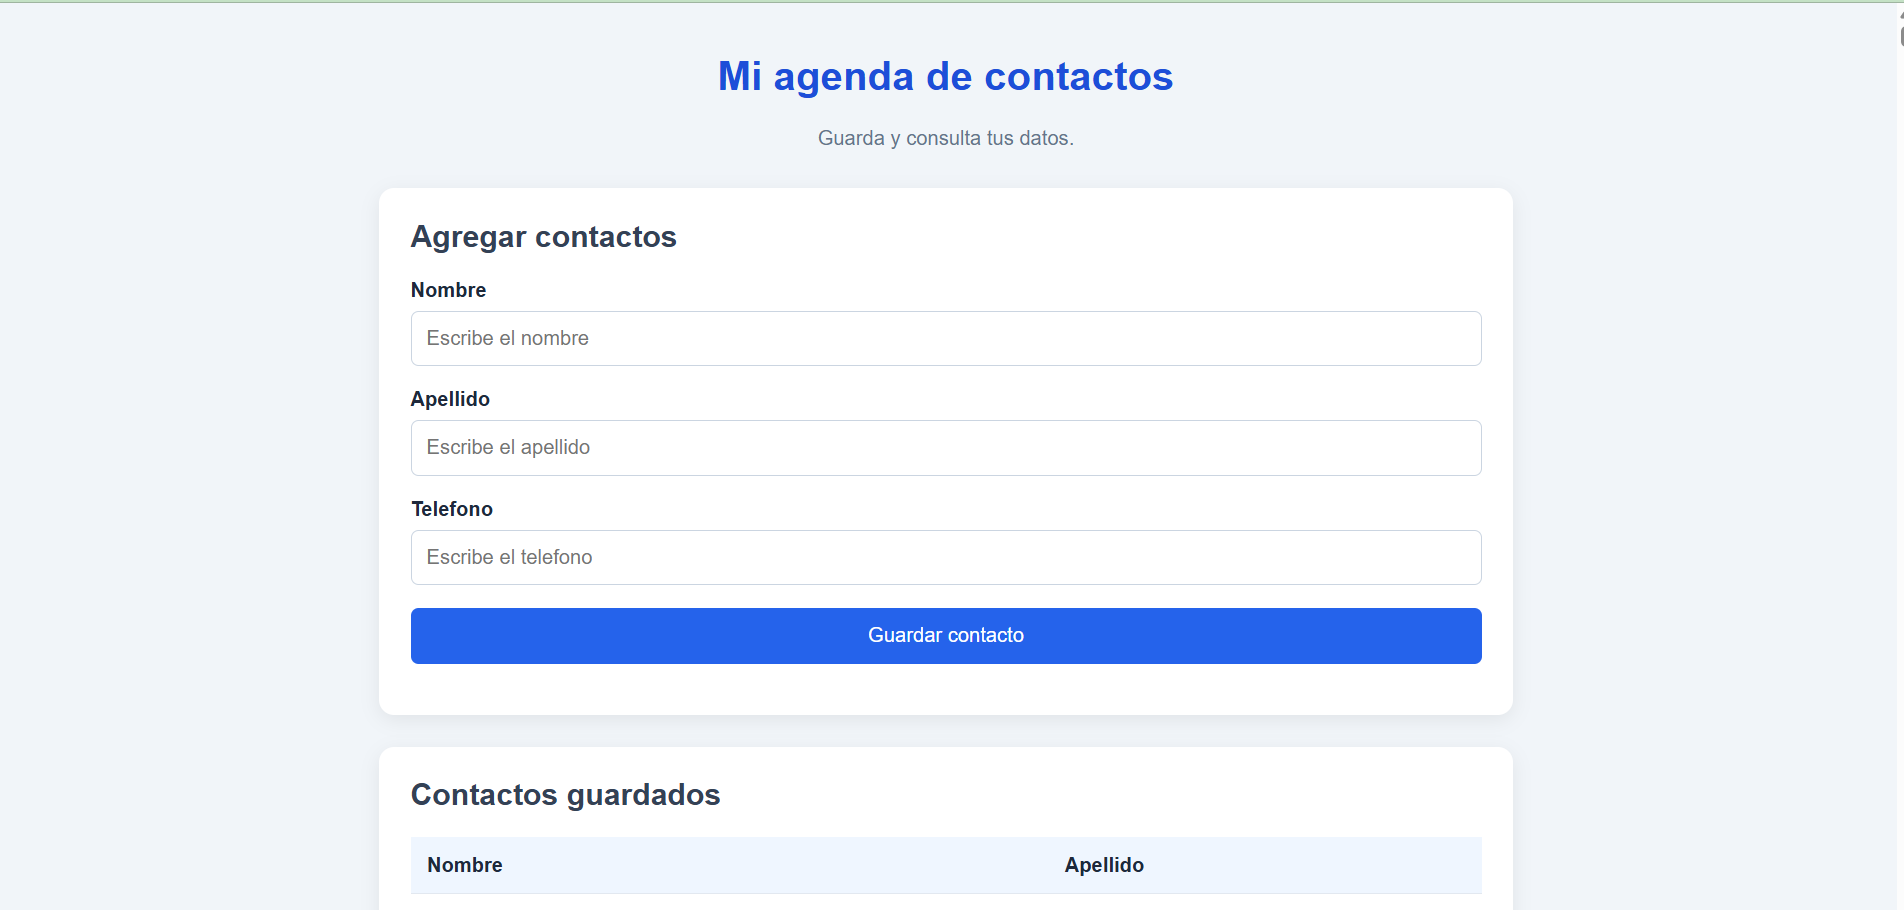
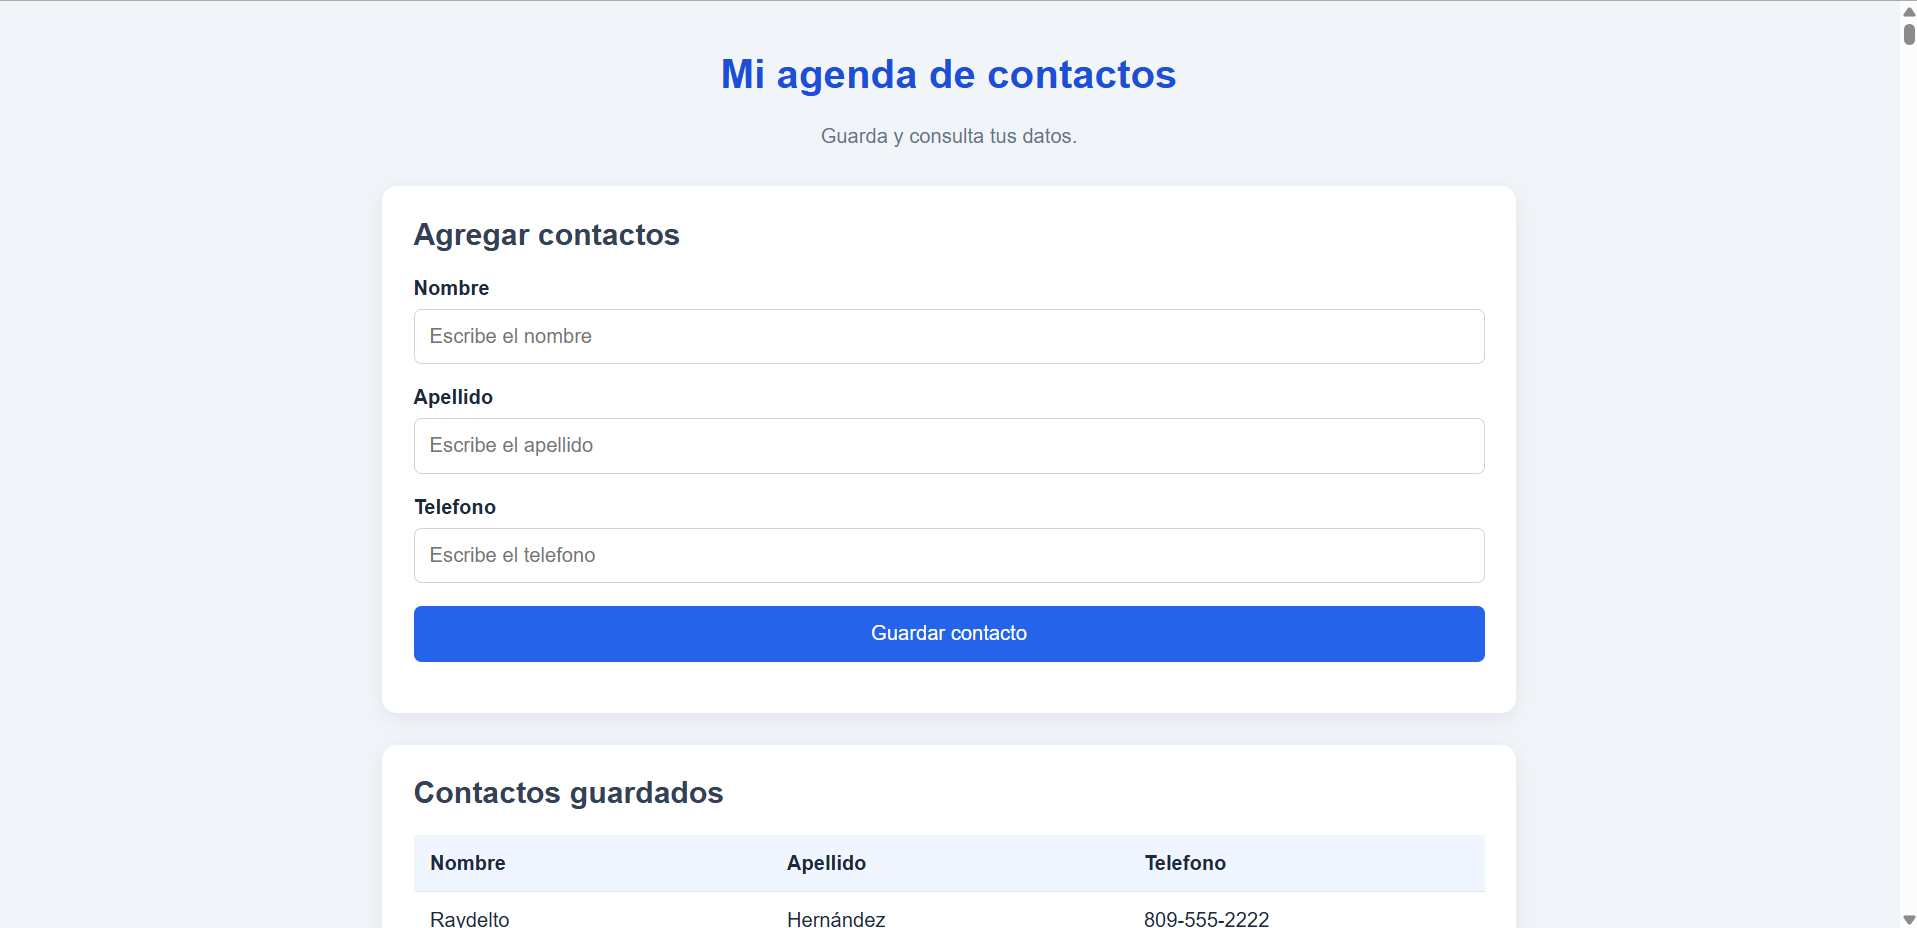
Actualizacion de proyecto

diff --git a/styles.css b/styles.css
@@ -78,11 +78,12 @@ button:hover{
 }
 
 .tabla-contenedor{
-    overflow: auto;
+    overflow-x: auto;
 }
 
 table{
     width: 100%;
+    table-layout: fixed;
     border-collapse: collapse;
 }
 
@@ -90,6 +91,7 @@ th, td{
     padding: 13px;
     border-bottom: 1px solid #e2e8f0;
     text-align: left;
+    overflow-wrap: anywhere;
 }
 
 th{

diff --git a/script.js b/script.js
@@ -15,6 +15,7 @@ async function cargarContactos() {
             throw new Error("No se pudieron consultar los contactos.");
         }
         const contactos = await respuesta.json();
+        
 
         mostrarContactos(contactos);
     } catch(error){
